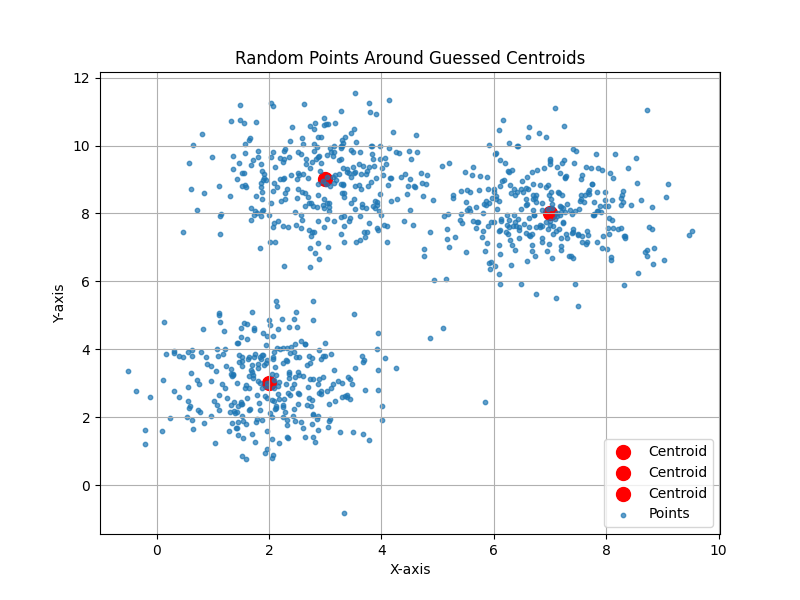
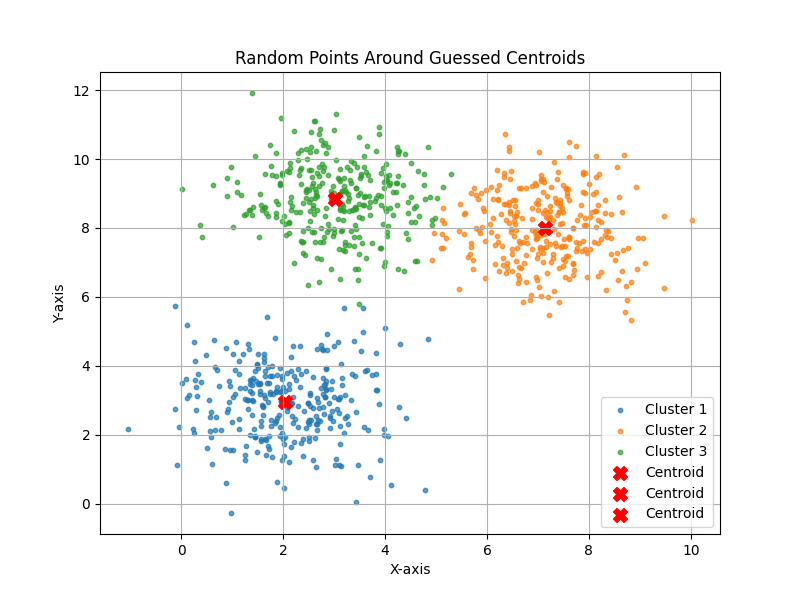
no-numpy-version-done

diff --git a/no-numpy.py b/no-numpy.py
@@ -1,6 +1,7 @@
 import numpy as np
 import matplotlib.pyplot as plt
 import random
+import time
 
 initial_centroids = [(2, 3), (7, 8), (3, 9)] 
 num_points = 300
@@ -20,11 +21,51 @@ for centroid in initial_centroids:
 
 plt.figure(figsize=(8, 6))
 for centroid in initial_centroids:
-    plt.scatter(*centroid, color='red', s=100, label="Centroid")  
+    plt.scatter(*centroid, color='red', s=100, label="Centroid") 
 
-points_x = [p[0] for p in all_points]
-points_y = [p[1] for p in all_points]
-plt.scatter(points_x, points_y, s=10, alpha=0.7, label="Points")
+def k_means(points, centroids, max_iterations = 500):
+    for i in range(max_iterations):
+        clusters = [[] for i in range(len(centroids))]
+        
+        for point in points:
+            distances = []
+            for centroid in centroids:
+                dist = ((point[0] - centroid[0]) ** 2 + (point[1] - centroid[1]) ** 2) ** 0.5 
+                distances.append(dist)
+            closest_centroid = distances.index(min(distances))
+            clusters[closest_centroid].append(point)
+
+        new_centroids = []
+        for cluster in clusters:
+            if cluster:  
+                new_x = sum([p[0] for p in cluster]) / len(cluster)
+                new_y = sum([p[1] for p in cluster]) / len(cluster)
+                new_centroids.append((new_x, new_y))
+            else:
+                new_centroids.append(centroids[clusters.index(cluster)])
+
+        if new_centroids == centroids:
+            break
+
+        centroids = new_centroids
+
+    return centroids, clusters
+
+start_time = time.time()
+final_centroids, final_clusters = k_means(all_points, initial_centroids)
+end_time = time.time()
+
+print(f"K-means completed in {end_time - start_time:.4f} seconds")
+
+plt.figure(figsize=(8, 6))
+
+for i, cluster in enumerate(final_clusters):
+    cluster_x = [p[0] for p in cluster]
+    cluster_y = [p[1] for p in cluster]
+    plt.scatter(cluster_x, cluster_y, label=f"Cluster {i+1}", s=10, alpha=0.7)
+
+for centroid in final_centroids:
+    plt.scatter(*centroid, color='red', s=100, label="Centroid", marker='X')
 
 plt.title("Random Points Around Guessed Centroids")
 plt.xlabel("X-axis")
